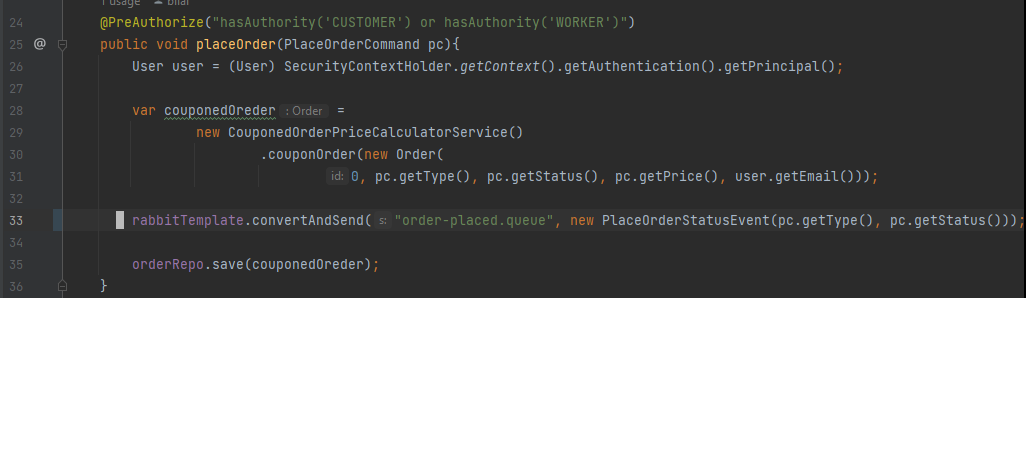
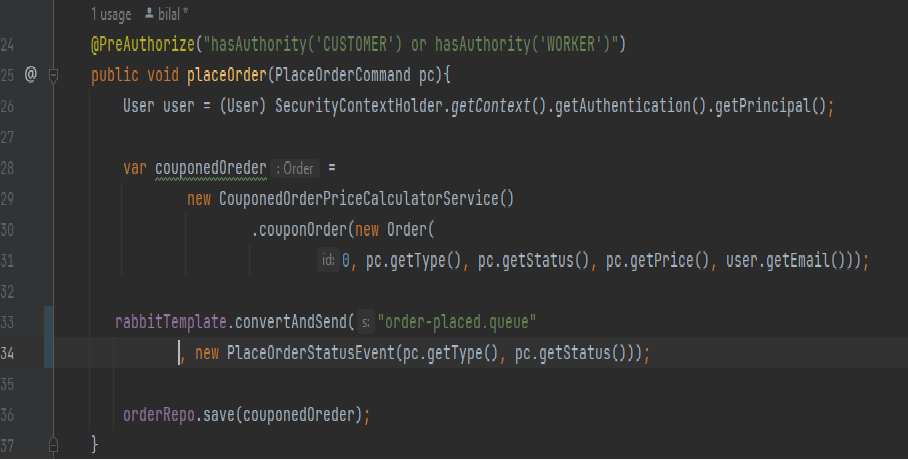
add images

diff --git a/src/main/java/com/project/pizza/application/OrderAppService.java b/src/main/java/com/project/pizza/application/OrderAppService.java
@@ -30,7 +30,8 @@ public class OrderAppService {
                         .couponOrder(new Order(
                                 0, pc.getType(), pc.getStatus(), pc.getPrice(), user.getEmail()));
 
-        rabbitTemplate.convertAndSend("order-placed.queue", new PlaceOrderStatusEvent(pc.getType(), pc.getStatus()));
+       rabbitTemplate.convertAndSend("order-placed.queue"
+               , new PlaceOrderStatusEvent(pc.getType(), pc.getStatus()));
 
         orderRepo.save(couponedOreder);
     }
